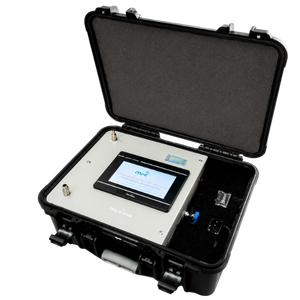
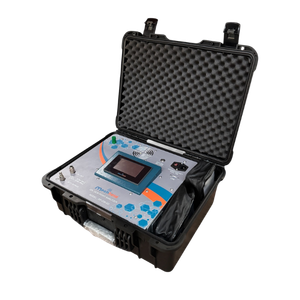
website

diff --git a/src/ProductPage.jsx b/src/ProductPage.jsx
@@ -63,8 +63,10 @@ const normalizeProduct = (item, category) => {
 const productImagePath = (fileName) => `/assets/products/SF6 Gas Recovery & Transfer Units/${fileName}`;
 const portableVacuumImagePath = (fileName) => `/assets/products/Portable Recovery Vacuum Units/${fileName}`;
 const filterImagePath = (fileName) => `/assets/products/Filters & Moisture Absorbers/${fileName}`;
-const measuringImagePath = (fileName) => `/assets/products/Measuring Instruments/${fileName}`;
+const measuringImagePath = (fileName) => `/assets/products/Measuring Instruments/${fileName}?v=20260730-measuring`;
 const connectorImagePath = (fileName) => `/assets/products/Gas Connectors & Manifolds/${fileName}`;
+const fillingImagePath = (fileName) => `/assets/products/SF6 Gas Filling Device/${fileName}`;
+const storageTankImagePath = (fileName) => `/assets/products/SF6 Gas Storage Tank/${fileName}`;
 
 const productDetails = (product, category) => {
   const lowerTitle = product.title.toLowerCase();
@@ -435,7 +437,27 @@ const productCategories = [
     text: "Gas filling devices and accessories for RMU, breaker and GIS systems.",
     image: "/assets/category/SF6 Gas Filling Devices.png",
     alt: "SF6 Gas Filling Device",
-    items: ["SF6 Gas Filling Device", "Filling kit/accessories for RMU, Breaker and GIS"]
+    items: [
+      {
+        title: "SF6 Gas Filling Device",
+        image: fillingImagePath("SF6 Gas Filling Device.png"),
+        gallery: [
+          fillingImagePath("SF6 Gas Filling Device.png"),
+          fillingImagePath("SF6 Gas Filling Device-2.png"),
+          fillingImagePath("SF6 Gas Filling Device-3.png")
+        ],
+        alt: "SF6 gas filling device"
+      },
+      {
+        title: "Filling kit/accessories for RMU, Breaker and GIS",
+        image: fillingImagePath("Filling kit/accessories for RMU.png"),
+        gallery: [
+          fillingImagePath("Filling kit/accessories for RMU.png"),
+          fillingImagePath("Filling kit/accessories for RMU-1.png")
+        ],
+        alt: "Filling kit accessories for RMU breaker and GIS"
+      }
+    ]
   },
   {
     tag: "Detection",
@@ -462,7 +484,20 @@ const productCategories = [
     text: "High-pressure storage tanks for secure gas handling and transport.",
     image: "/assets/category/SF6 Gas Storage Tanks.png",
     alt: "SF6 Gas Storage Tank",
-    items: ["150 Ltr", "300 Ltr", "600 Ltr", "1000 Ltr", "2000 Ltr", "4000 Ltr", "8000 Ltr"]
+    items: [
+      "150 Ltr",
+      "300 Ltr",
+      "600 Ltr",
+      "1000 Ltr",
+      "2000 Ltr",
+      {
+        title: "4000 Ltr",
+        image: storageTankImagePath("4000 Ltr.png"),
+        gallery: [storageTankImagePath("4000 Ltr.png")],
+        alt: "4000 Ltr SF6 gas storage tank"
+      },
+      "8000 Ltr"
+    ]
   }
 ];
 
@@ -689,8 +724,8 @@ function ProductDetailListItem({ children, className = "" }) {
 
 function ProductDetailPage({ category, product }) {
   const detail = productDetails(product, category);
-  // Keep product.gallery data available, but show only the primary image for now.
-  const gallery = [product.image];
+  const shouldShowGallery = category.slug === "sf6-gas-filling-device";
+  const gallery = shouldShowGallery && product.gallery?.length ? [...new Set(product.gallery)] : [product.image];
   const hasGalleryControls = gallery.length > 1;
   const [activeIndex, setActiveIndex] = useState(0);
   const [isImagePreviewOpen, setIsImagePreviewOpen] = useState(false);
